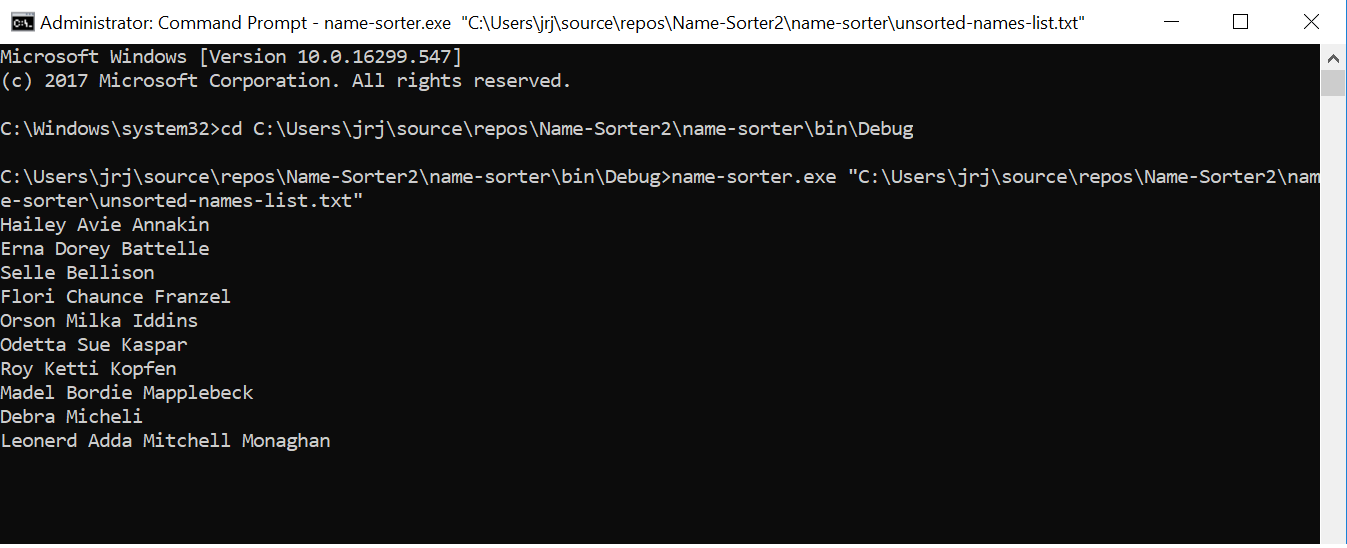
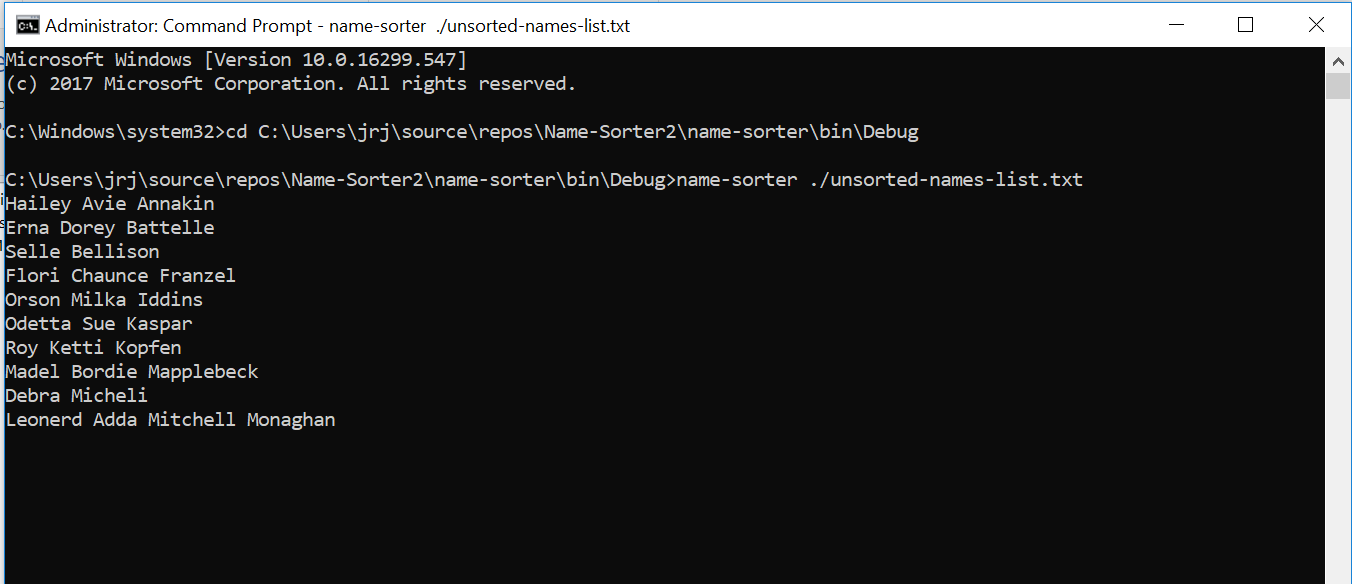
- code cleanup, renaming. Added unit test. fixed readme

Changed region(s): [[0.0, 0.0, 1.0, 1.0], [0.9666, 0.1551, 0.9978, 0.1861]]

diff --git a/name-sorter/Program.cs b/name-sorter/Program.cs
@@ -14,32 +14,43 @@ namespace name_sorter
     {
         static void Main(string[] args)
         {
-            var inputfileLocation = args[0];
-
-            if (string.IsNullOrEmpty(inputfileLocation))
+            try
             {
-                Console.WriteLine("Error. Please provide a file path");
-                Console.ReadLine();
-                Environment.Exit(0);
+                var inputfile = args[0];
+
+                if (string.IsNullOrEmpty(inputfile))
+                {
+                    Console.WriteLine("Error. Please provide a file path");
+                    Console.ReadLine();
+                    Environment.Exit(0);
+                }
+
+                var inputfileLocation = Environment.CurrentDirectory + "\\" + inputfile.Replace("./", "");
+                var outputfileLocation = Environment.CurrentDirectory + "\\sorted-names-list.txt";
+
+                var fileProcessor = new FileProcessor(inputfileLocation, outputfileLocation);
+                IDataReader inputFile = new FileReader(fileProcessor);
+
+                var data = inputFile.GetData();
+
+                ISorter sortEngine = new Sorter();
+                var sortedList = sortEngine.GetSortedData(data, new char[] { ' ' });
+
+                // use a factory. We can extend the factory to support sending to other outputs if required.Open/Closed principal
+                var output = new OutputFactory(fileProcessor);
+                foreach (var writers in output.GetWriters())
+                {
+                    writers.WriteData(sortedList);
+                }
             }
-            var directory = Path.GetDirectoryName((Path.GetDirectoryName(Environment.CurrentDirectory)));
 
-            var outputfileLocation = directory + "\\sorted-names-list.txt";
-
-            var fileProcessor = new FileProcessor(inputfileLocation, outputfileLocation);
-            IDataReader inputFile = new FileReader(fileProcessor);
-
-            var data = inputFile.GetData();
-
-            ISort sortEngine = new Sort();
-            var sortedList = sortEngine.GetSortedData(data, new char[] { ' ' });
-
-            // use a factory. We can extend the factory to support sending to other outputs if required.Open/Closed principal
-            var output = new OutputFactory(fileProcessor);
-            foreach (var writers in output.GetWriters())
+            catch (Exception ex)
             {
-                writers.WriteData(sortedList);
+                // to do logging
+                Console.WriteLine(ex.Message);
+
             }
         }
+
     }
 }

diff --git a/name-sorter-test/SortTests.cs b/name-sorter-test/SortTests.cs
@@ -10,12 +10,12 @@ namespace name_sorter_test
     [TestFixture]
     public class SortTests
     {
-        private Sort _sortEngine;
+        private Sorter _sortEngine;
 
         [SetUp]
         public void Setup()
         {
-            this._sortEngine = new Sort();
+            this._sortEngine = new Sorter();
         }
 
         [Test]
@@ -56,6 +56,34 @@ namespace name_sorter_test
         {
             //assert
             Assert.Throws<ArgumentNullException>(() => this._sortEngine.GetSortedData(mockData(), null));
+        }
+
+        [Test]
+        public void PassOneGivenNameCollection_ShouldSort_Asc()
+        {
+            char[] delimiters = new char[] { ' ' };
+            List<string> singleNameCollection = new List<string>();
+            singleNameCollection.Add("John Jeremy");
+            singleNameCollection.Add("Adam David");
+            var results = this._sortEngine.GetSortedData(singleNameCollection, delimiters);
+
+            // assert
+            results[0].Should().BeEquivalentTo("Adam David");
+            results[1].Should().BeEquivalentTo("John Jeremy");
+        }
+
+        [Test]
+        public void PassOneNameCollection_ShouldSort_Asc()
+        {
+            char[] delimiters = new char[] { ' ' };
+            List<string> singleNameCollection = new List<string>();
+            singleNameCollection.Add("Jeremy");
+            singleNameCollection.Add("David");
+            var results = this._sortEngine.GetSortedData(singleNameCollection, delimiters);
+
+            // assert
+            results[0].Should().BeEquivalentTo("David");
+            results[1].Should().BeEquivalentTo("Jeremy");
         }
 
         private List<string> mockData()

diff --git a/name-sorter/engine/Sorter.cs b/name-sorter/engine/Sorter.cs
@@ -5,7 +5,7 @@ using System.Linq;
 
 namespace name_sorter.engine
 {
-    public class Sort : ISort
+    public class Sorter : ISorter
     {
         public string[] GetSortedData(List<string> dataToSort, char[] delimiters)
         {
@@ -33,16 +33,19 @@ namespace name_sorter.engine
                 }
 
                 // lets remove extra whitespaces so we have a clean string
-                var givenName = name.GivenName.Split(' ').Where(s => !string.IsNullOrWhiteSpace(s));
-                name.GivenName = string.Join(" ", givenName);
+                if (!string.IsNullOrEmpty(name.GivenName))
+                {
+                    var givenName = name.GivenName.Split(' ').Where(s => !string.IsNullOrWhiteSpace(s));
+                    name.GivenName = string.Join(" ", givenName).Trim();
+                }
 
                 reversedList.Add(name);
             }
 
             // need to order by as per requirement
             var sortedList = reversedList.OrderBy(s => s.LastName).ThenBy(s => s.GivenName)
-                .Select(i => (i.GivenName + " " + i.LastName).ToString()).ToArray();
-
+                .Select(i => (i.GivenName + " " + i.LastName).ToString().Trim()).ToArray();
+            
             // return final list
             return sortedList;
         }

diff --git a/name-sorter/engine/ISorter.cs b/name-sorter/engine/ISorter.cs
@@ -2,7 +2,7 @@
 
 namespace name_sorter.engine
 {
-    interface ISort
+    interface ISorter
     {
         string[] GetSortedData(List<string> dataToSort, char[] delimiters);
     }

diff --git a/README.md b/README.md
@@ -3,11 +3,12 @@ Given a set of names, the app order the set first by last name, then by any give
 
 # Getting Started
 To run the console application, clone the repository.  Run name-sorter.exe in Command Prompt
-Eg: name-sorter.exe "path to your unsorted list"
+Eg: name-sorter ./unsorted-names-list.txt
+*Note: Please ensure the unsorted-names-list.txt file exist in the working directory
 
 ![Screenshot](readmeimages/cmd.png)
 
-Results will be saved in sorted-names-list.txt in parent directory
+Results will be saved in sorted-names-list.txt in the working directory
 
 # Framework and Nuget packages used
 - Visual Studio 2017 .NET Framework 4.6.1
@@ -17,11 +18,25 @@ Results will be saved in sorted-names-list.txt in parent directory
 - NUnit
 - NSUbstitute
 
+# High Level Architecture
+![Screenshot](readmeimages/diagram.png)
+The core of the system is the sorter Engine. It reads data from the file, routes the data to the engine and outputs the sorted data to the console window and file.
+
 # Build & CI - Azure DevOps
 Build shown in Azure DevOps portal
 ![Screenshot](readmeimages/build.png)
 Test results shown in Azure DevOps portal
 ![Screenshot](readmeimages/test.png)
+Email for successful build
 
-Authors
+# Future Improvements
+- Add new data readers.Create new DBReader class and implement IDataReader. Eg: database table
+- Add new data writer. Create new DBWriter class and implement IDataWriter Eg: write to database.
+- Add new DBWRiter to OutputFactory (GetWriters() method) to write to DB.
+- Add logging service
+- Add more unit tests.
+
+# Authors
 Jeremy Jaya Raj
+LinkedIn: https://www.linkedin.com/in/jeremyjayaraj/
+jeremy.jayaraj@outlook.com
